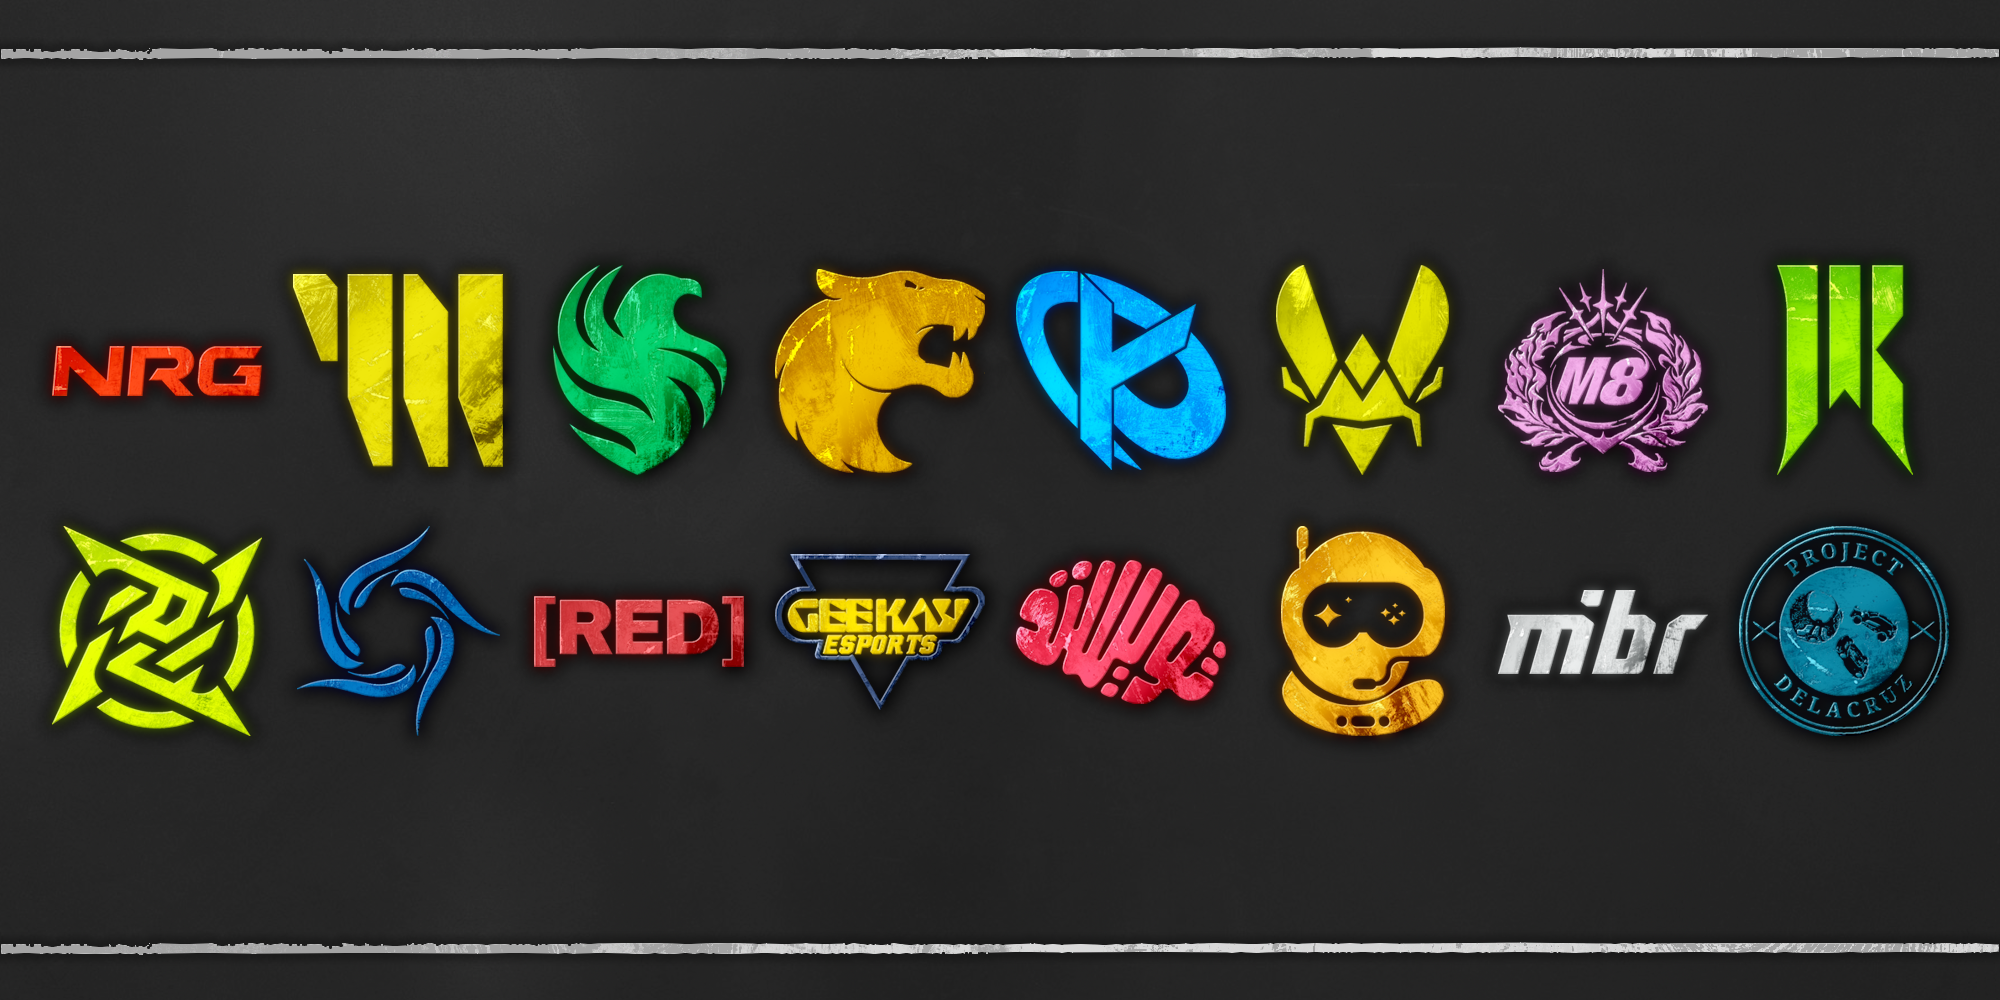
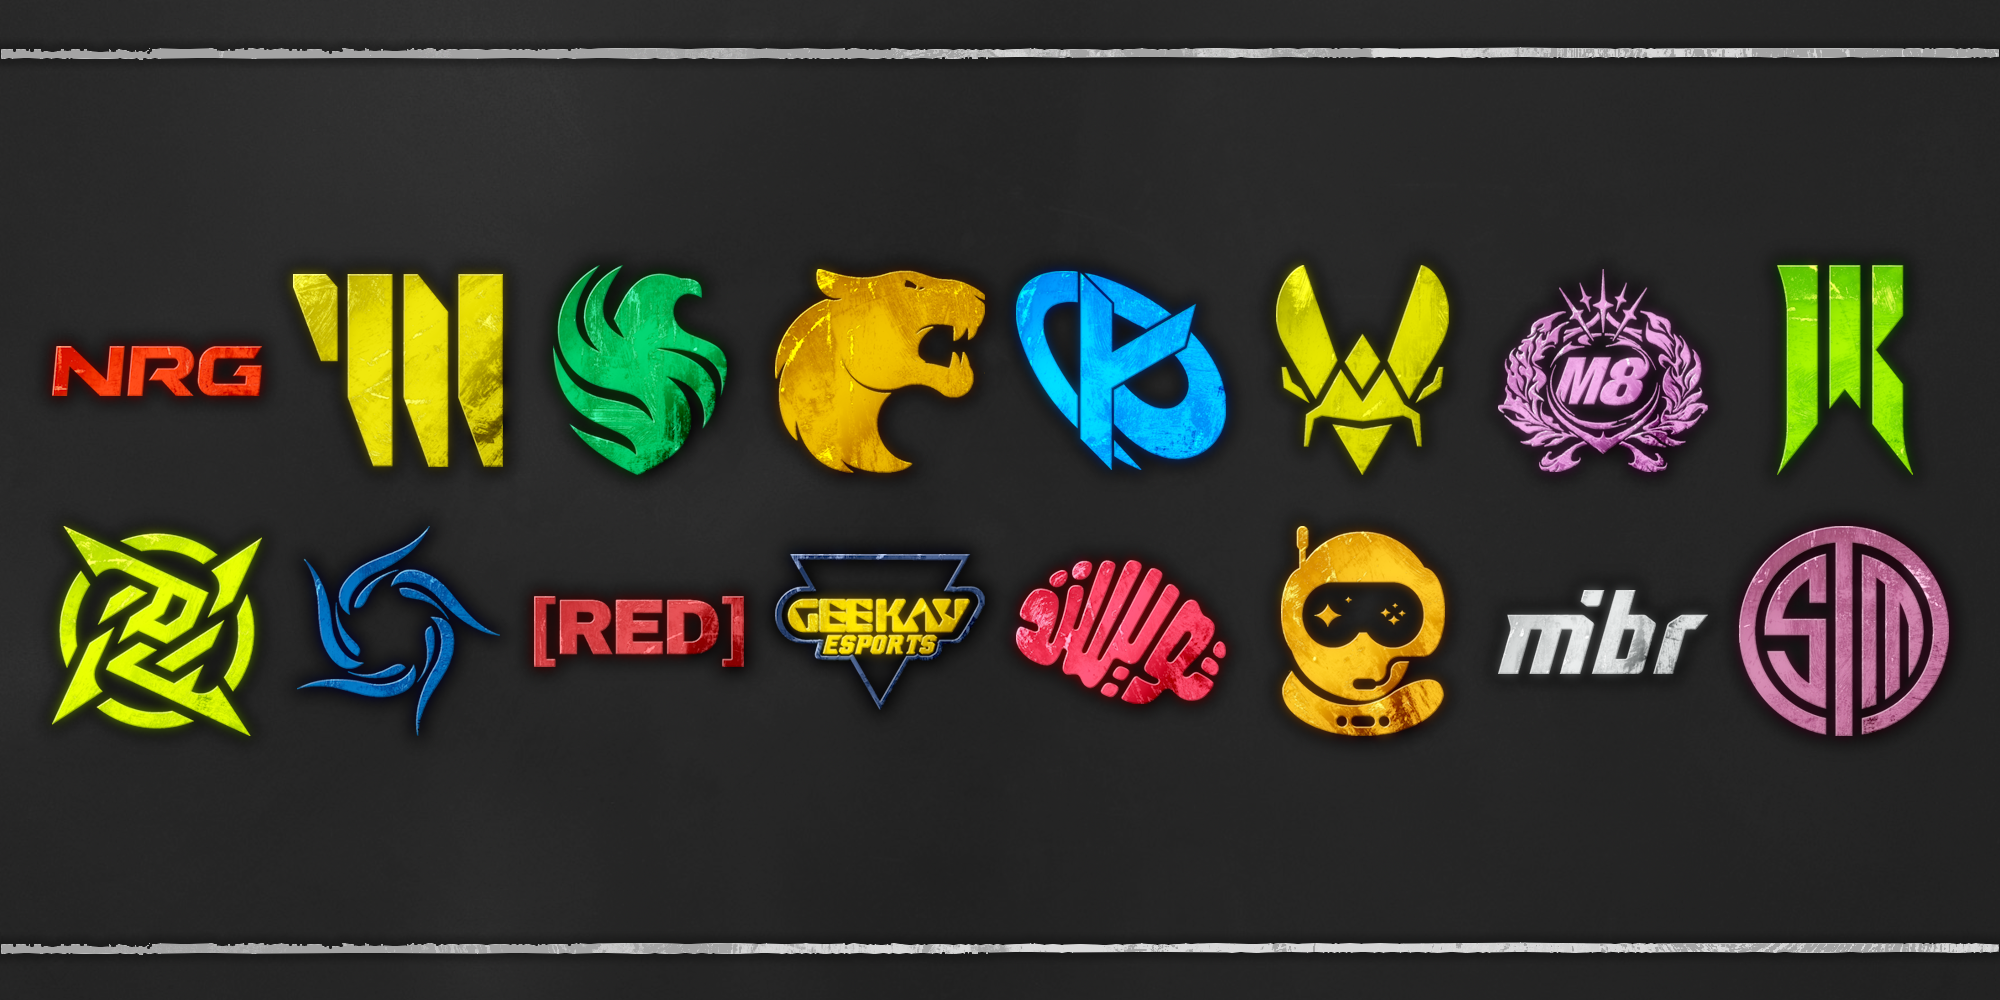
pdlc -> tsm boston

Changed region(s): [[0.868, 0.527, 0.992, 0.744]]

diff --git a/articles/rae-2026-boston-major-predictions.html b/articles/rae-2026-boston-major-predictions.html
@@ -213,7 +213,7 @@
 <rect x='50' width='899.5' height='50' y='925' rx='5' fill='#20152AE0' class='ratingbox'></rect>
 <rect x='50' width='340.316273394418' height='50' y='925' rx='5' fill='#8D3BDA' class='ratingbox colored'><title>Rating: 1493</title></rect>
 <text text-anchor='end' x='380.316273394418' y='950' dominant-baseline='central' fill='#00000050' font-family='Inter' font-weight='800' font-size='20' style='user-select:none' class='ratingtext'>1493</text>
-<svg x='403.316273394418' y='925' class='ratingteam'><image y='7.5' width='35' height='35' xlink:href='/src/logos/Project Delacruz.webp'><desc>Project Delacruz Logo</desc></image><g font-family='SUSE, sans-serif' fill='#ffffff'><text x='45' y='9.5' dominant-baseline='hanging' font-weight='600' font-size='18px'>Project Delacruz</text><text x='45' y='43.5' dominant-baseline='ideographic' font-weight='300' font-size='12px'>Catalysm, Kevin, Sphinx</text></g></svg>
+<svg x='403.316273394418' y='925' class='ratingteam'><image y='7.5' width='35' height='35' xlink:href='/src/logos/TSM.webp'><desc>TSM Logo</desc></image><g font-family='SUSE, sans-serif' fill='#ffffff'><text x='45' y='9.5' dominant-baseline='hanging' font-weight='600' font-size='18px'>TSM</text><text x='45' y='43.5' dominant-baseline='ideographic' font-weight='300' font-size='12px'>Catalysm, Kevin, Sphinx</text></g></svg>
 <text text-anchor='end' x='37' y='1015' dominant-baseline='central' fill='#ffffff' font-family='Inter' font-weight='700' font-size='28' class='num'>16</text>
 <rect x='50' width='899.5' height='50' y='990' rx='5' fill='#262626E0' class='ratingbox'></rect>
 <rect x='50' width='232.858244742004' height='50' y='990' rx='5' fill='#B7B7B7' class='ratingbox colored'><title>Rating: 1288</title></rect>
@@ -223,7 +223,7 @@
                             </svg>  
                             <p class="color-article">Thanks to their best-in-the-world talent and good-for-par Split 1, <mena>Team Falcons</mena> top RAE's power rankings entering Boston. Kickoff LAN winners <eu>Karmine Corp</eu> follow closely, while defending World Champions <na>NRG Esports</na>, despite showing their top form occassionally this season, sits at third thanks to a handful of upset losses and close wins.</p>
                             <p><eu>Gentle Mates</eu>, <mena>Twisted Minds</mena> share the designation of dark horse candidates this time around, while <eu>Team Vitality</eu>, despite an underwhelming first split, stick around at #6.</p>
-                            <p>The remaining NA and EU teams, as well as <sam>FURIA</sam>, round out RAE's batch of competitive teams for this LAN. <sam>MIBR</sam> are at least close to the rest of the pack, but <oce>PWR</oce>, <apac>Project Delacruz</apac>, and especially <ssa>Five Fears</ssa> are along for the ride more than anything else.</p>
+                            <p>The remaining NA and EU teams, as well as <sam>FURIA</sam>, round out RAE's batch of competitive teams for this LAN. <sam>MIBR</sam> are at least close to the rest of the pack, but <oce>PWR</oce>, <apac>TSM</apac>, and especially <ssa>Five Fears</ssa> are along for the ride more than anything else.</p>
                             <h3>How are [REDACTED] so low?</h3>
                             <p>Unfortunately, there's not much explaining away to do about North America's rankings as a whole, so you'll have to settle for an explanation about one specific team.</p>
                             <p><na>[REDACTED]</na>'s spot at #10 is by far the most eye-catching and questionable ranking, and in this instance it's kind of a Catch-22. I talked a bit about this before <a href="https://pyroblocks.github.io/articles/rae-2026-boston-open-3-odds-p2">NA Open 3</a>, but an Elo-based system like RAE simply isn't calibrated to accomodate one team have such a meteoric rise intraregionally like <na>[REDACTED]</na> has (the team started with a rating of 1506, or World #25, and has climbed by over 250 since then).</p>
@@ -405,7 +405,7 @@ src='/src/logos/PWR.webp' alt=''>&nbsp; PWR</td>
 </tr>
 <tr class='svelte-l969s8'>
 <td class='firstcol svelte-l969s8'><img class='table-icon'
-src='/src/logos/Project Delacruz.webp' alt=''>&nbsp; Project Delacruz</td>
+src='/src/logos/TSM.webp' alt=''>&nbsp; TSM</td>
 <td class=' svelte-l969s8' style='background-color: rgba(239,47,47,0)'>&nbsp;<1%</td>
 <td class=' svelte-l969s8' style='background-color: rgba(239,47,47,0)'>&nbsp;<1%</td>
 <td class=' svelte-l969s8' style='background-color: rgba(239,47,47,0)'>&nbsp;<1%</td>
@@ -578,7 +578,7 @@ src='/src/logos/MIBR.webp' alt=''>&nbsp; MIBR</td>
 </tr>
 <tr class='svelte-l969s8'>
 <td class='firstcol svelte-l969s8'><img class='table-icon'
-src='/src/logos/Project Delacruz.webp' alt=''>&nbsp; Project Delacruz</td>
+src='/src/logos/TSM.webp' alt=''>&nbsp; TSM</td>
 <td class=' svelte-l969s8' style='background-color: rgba(239,47,47,0.0173)'>&nbsp;1.7%</td>
 <td class=' svelte-l969s8' style='background-color: rgba(239,47,47,0.05)'>&nbsp;5.0%</td>
 <td class=' svelte-l969s8' style='background-color: rgba(239,47,47,0.2201)'>&nbsp;22.0%</td>
@@ -591,7 +591,7 @@ src='/src/logos/Project Delacruz.webp' alt=''>&nbsp; Project Delacruz</td>
                             <p>Group A has a clearly set order: <na>NRG</na>, <eu>NiP</eu>, <oce>PWR</oce>, and <ssa>Five Fears</ssa>. Of this ordering, <eu>Ninjas</eu> are the least solid in the model's eyes, but they still have a >50% chance to end at 2nd.</p>
                             <p>Group B has a clear favorite in <mena>Falcons</mena>, but the other three teams (ranked 9th, 10th, and 11th in the world by the model) are all even odds for the remaining 3 spots. <sam>FURIA</sam> are the slightest of favorites over both <na>[REDACTED]</na> and <eu>Geekay</eu> here.</p>
                             <p>Group C's kiss of death will likely find two of <mena>Twisted</mena>, <eu>Vitality</eu>, and <na>SSG</na>, as World #2 <eu>Karmine</eu> are the model's choice to top the group. Still, the margins are all razor-thin, and <eu>KC</eu> could conceivably miss the Top 8. Of the three other teams, <na>SSG</na> are rated as the weakest. The average rating of the Group C teams is 1886, more than 250 above Group A's average of 1631. Two Top 8-quality teams are going to be missing the playoffs.</p>
-                            <p>Group D sees <eu>Gentle Mates</eu> likely to take 1st, with <na>Shopify</na> behind them, followed by <sam>MIBR</sam> and <apac>Project Delacruz</apac>. <na>Rebellion</na> are less set than you might think: they're only slightly closer to <eu>GM8</eu> (86 rating) than to <sam>MIBR</sam> below them (103).</p>
+                            <p>Group D sees <eu>Gentle Mates</eu> likely to take 1st, with <na>Shopify</na> behind them, followed by <sam>MIBR</sam> and <apac>TSM</apac>. <na>Rebellion</na> are less set than you might think: they're only slightly closer to <eu>GM8</eu> (86 rating) than to <sam>MIBR</sam> below them (103).</p>
                         </div>
                     </div>
                     <div class="alt-box corner-all">
